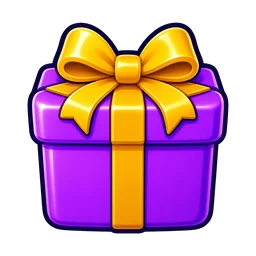
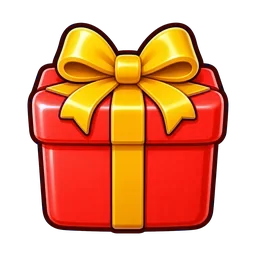
juego: los regalos pasan de morado a rojo, que sobre el violeta no se veian (BallTrials-GAME 2a5528f)

diff --git a/play-cktxj8m6/index.html b/play-cktxj8m6/index.html
@@ -1,6 +1,6 @@
 <meta charset="utf-8">
 <meta name="robots" content="noindex, nofollow">
-<meta name="bt-build" content="2026-08-08 02c0386"><!--+AG doc 34 Fase B: sin esto el navegador adivina el encoding y los emojis/flechas salen como mojibake (a-¶ PLAY) -->
+<meta name="bt-build" content="2026-08-08 2a5528f"><!--+AG doc 34 Fase B: sin esto el navegador adivina el encoding y los emojis/flechas salen como mojibake (a-¶ PLAY) -->
 <meta name="viewport" content="width=device-width, initial-scale=1, maximum-scale=1, user-scalable=no">
 <title>BallTrials · El juego</title>
 <!--+AG doc 41 bloque E: el mapa de librerias (three, para el fondo vivo y las bolas de los menus).
@@ -2017,9 +2017,12 @@
   .pr-code .cd.nm + button{ margin-left:9px; }   /* ya lo empuja el valor: sin esto el boton se pega al borde */
   .pr-slots{ display:flex; gap:9px; margin-top:11px; align-items:center; } .pr-slots .s{ width:44px; height:44px; border-radius:50%; border:2px dashed #ffffff2e; color:var(--muted); display:grid; place-items:center; font-size:var(--fs-5); background:var(--plate-a); cursor:pointer; }
   /*+AG doc 41 §1: el regalo era un emoji del sistema sobre un azulejo dorado. Ahora es arte propio
-     (ui-regalo.webp, morado con lazo dorado) y va DESNUDO, sin plato: el plato dorado le peleaba el
-     color al lazo, y en este archivo el azulejo se reserva a lo que se pulsa (.ricon), no a lo
-     decorativo (.pi, .tlk tambien van sueltos). */
+     (ui-regalo.webp, ROJO con lazo dorado desde el 8-ago) y va DESNUDO, sin plato: el plato dorado le
+     peleaba el color al lazo, y en este archivo el azulejo se reserva a lo que se pulsa (.ricon), no
+     a lo decorativo (.pi, .tlk tambien van sueltos).
+     ⚠ 8-ago · ERA MORADO, y por eso cambio: sobre el violeta del juego un regalo morado casi no se
+       ve. Medido contra el fondo real de la fila del Ranking, la caja pasa de 59 a 94 de separacion
+       de color. Lo canto Jaime mirando la pantalla, no un banco. Ver doc 102. */
   .pr-ref{ display:flex; align-items:center; gap:12px; } .pr-ref img.gift{ width:46px; height:46px; flex:0 0 auto; object-fit:contain; display:block; filter:drop-shadow(0 3px 7px #0009); } .pr-ref .tx{ flex:1; font-size:var(--fs-3); color:#d6dbf4; line-height:1.4; } .pr-ref .tx b{ color:var(--gold2); }
   .pr-emotes{ display:flex; gap:8px; flex-wrap:wrap; } .pr-emote{ background:var(--plate-a); border:1px solid var(--line); border-radius:12px; padding:8px 12px; font-size:var(--fs-3); font-weight:700; color:#e7ebff; cursor:pointer; }
   .pr-toggle{ display:flex; align-items:center; gap:11px; } .pr-toggle .tx{ flex:1; font-size:var(--fs-3); color:#d6dbf4; line-height:1.4; }
@@ -6051,7 +6054,13 @@
            `prRefShort` no es copy nuevo: son las mismas palabras del principio de `prRefTx` en los 20
            diccionarios, cortadas donde acaba la promesa. -->
       <div class="pr-ref">
-        <img class="gift" src="arte/ui/ui-regalo.webp" alt="">
+        <!--+AG ⚠ 8-ago · LE FALTABA EL `?v=` Y ERA EL UNICO REGALO DEL JUEGO SIN EL. Todos los demas
+             pasan por uiArt(), que les cuelga el ART_V; este estaba escrito a mano. Mientras el
+             fichero no cambiaba no se notaba — el dia que cambio de morado a rojo (doc 102) habria
+             sido el unico que se quedaba morado en el navegador de quien ya hubiera entrado, y sin
+             fecha de caducidad. Un `src` a mano en un fichero que puede cambiar es una bomba de
+             relojeria de cache. -->
+        <img class="gift" src="arte/ui/ui-regalo.webp?v=4" alt="">
         <div class="tx" data-th="prRefShort"></div>
       </div>
       <button class="se-cta oro" style="margin-top:11px" data-soonk="sSoonInviteGame" data-t="prRefCta">Invitar al juego</button>
@@ -6323,7 +6332,7 @@
 
 <!--+AG doc 41 bloque C: iconos de modo canonicos (SVG plano dorado del canal). Script CLASICO y
      antes del principal a proposito: se ejecuta en orden y la constante existe ya en el primer render. -->
-<script src="i18n/idiomas.js?v=02c0386"></script><!--+AG doc 49: catalogo de los 20 idiomas + cargador de paquetes. Clasico y ANTES del script principal: LANGS/ord/nfmt se construyen con el. -->
+<script src="i18n/idiomas.js?v=2a5528f"></script><!--+AG doc 49: catalogo de los 20 idiomas + cargador de paquetes. Clasico y ANTES del script principal: LANGS/ord/nfmt se construyen con el. -->
 <script src="arte/modeicons-vendored.js"></script>
 <script src="arte/bolas-canon.js"></script><!--+AG el color canonico de las 12 bolas, fuente unica (lo lee tambien integrar-bolas.py). Tiene que ir ANTES del script principal: ARCH_COLOR se construye con el. -->
 <script>
@@ -7634,7 +7643,9 @@ const nfmt=n=>Number(n||0).toLocaleString(BTI18N.nloc(LANG));
 //   `curl` devolvia los bytes nuevos y el navegador seguia pintando los viejos). La nota larga esta
 //   encima de `.cico` en el CSS. Al SUSTITUIR una imagen ya desplegada, sube este numero.
 //   v2 = 1-ago-2026: monedas de oro y gema (encargo 29) + trofeo con tinta (encargo 30).
-const ART_V='3';   /*+AG 7-ago: sube a 3 al entrar los 4 iconos de booster nuevos, que sustituyen a ficheros del mismo nombre */
+const ART_V='4';   /*+AG 7-ago: sube a 3 al entrar los 4 iconos de booster nuevos, que sustituyen a ficheros del mismo nombre.
+                      8-ago: sube a 4 porque los TRES REGALOS pasan de morado a rojo (doc 102) sin cambiar de nombre de
+                      fichero — sin esto, el navegador y la CDN seguirian sirviendo la caja morada durante dias. */
 const uiArt=n=>`arte/ui/${n}.webp?v=${ART_V}`;
 const coinIco=(n,cls)=>`<img class="cico${cls?' '+cls:''}" src="${uiArt('moneda-'+n)}" alt="">`;
 //+AG 1-ago (encargo 31): los OBJETOS DE LOGRO — puesto 1º/2º/3º, corona del ganador y "hay premio"—
@@ -9877,7 +9888,7 @@ function vivasSync(){
   if(_vivas){ _vivas.sincroniza(raiz,z); return; }
   if(_vivasCargando) return;
   _vivasCargando=true;
-  import('./motor/chassis/vivas.mjs?v=02c0386').then(m=>{ _vivas=m.vivas; _vivasCargando=false; window.__vivasInfo=()=>_vivas.info(); const [r,zz]=vivasQue(); _vivas.sincroniza(r,zz); })
+  import('./motor/chassis/vivas.mjs?v=2a5528f').then(m=>{ _vivas=m.vivas; _vivasCargando=false; window.__vivasInfo=()=>_vivas.info(); const [r,zz]=vivasQue(); _vivas.sincroniza(r,zz); })
     .catch(e=>{ _vivasCargando=false; console.warn('[vivas] no cargo; las cartas se quedan sin bola', e); });
 }
 //+AG y se PARAN al salir: doce bolas en 3D girando detras de una pantalla que ya no miras es bateria
@@ -10147,7 +10158,7 @@ const esEstela=id=>ESTELA_ORD.indexOf(id)>=0;
 let ESTELA_COLS=null;
 function cargaEstelaCols(cb){
   if(ESTELA_COLS) return cb();
-  import('./motor/chassis/estelas.mjs?v=02c0386')
+  import('./motor/chassis/estelas.mjs?v=2a5528f')
     .then(m=>{ ESTELA_COLS=m.ESTELAS||{}; cb(); })
     .catch(()=>{ ESTELA_COLS={}; cb(); });   //   sin red, fichas en gris: nunca una pantalla rota
 }
@@ -12618,7 +12629,7 @@ atrasSync();
 <!--+AG El mapa de librerias (importmap) YA NO VIVE AQUI: se subio al <head>, arriba del todo.
      Tiene que estar parseado ANTES del primer import, y desde aqui abajo no lo estaba. -->
 <script type="module">
-  import { startAmbient } from './arte/ambient.mjs?v=02c0386';
+  import { startAmbient } from './arte/ambient.mjs?v=2a5528f';
   //+AG el modulo se ejecuta DESPUES del script clasico, asi que al llegar aqui la Home ya esta
   //   pintada: por eso se enciende a mano si toca, en vez de esperar a un cambio de pantalla.
   //+AG feedback Jaime 2026-07-27: ahora hay DOS lienzos posibles (Home #ambient y Resultados #ambientR);
@@ -12634,7 +12645,7 @@ atrasSync();
   //+AG doc 51: «asi se ve en pista» dentro de la ficha del Garaje. Se expone en window porque
   //   openDetail/closeDetail viven en el script CLASICO de arriba, que no puede importar modulos.
   //   Mismo trato que el fondo vivo: un solo contexto WebGL a la vez, y se apaga al salir.
-  import('./arte/pista-preview.mjs?v=02c0386').then(m => {
+  import('./arte/pista-preview.mjs?v=2a5528f').then(m => {
     window.BT_PISTA = { show:(el,k)=>{ try{ m.showPista(el,k); }catch(e){} }, stop:()=>m.stopPista() };
   });
 </script>
@@ -12646,8 +12657,8 @@ atrasSync();
      Se reusa el reproductor DEL MOTOR (chassis/webaudio.mjs), no uno nuevo: mismo desbloqueo por gesto, mismo
      rescate al volver de segundo plano en movil. -->
 <script type="module">
-  import { createWebAudio } from './motor/chassis/webaudio.mjs?v=02c0386';
-  import { createUiSfx } from './motor/chassis/uisfx.mjs?v=02c0386';   //+AG el clic de los menus (VB Jaime 2026-07-27)
+  import { createWebAudio } from './motor/chassis/webaudio.mjs?v=2a5528f';
+  import { createUiSfx } from './motor/chassis/uisfx.mjs?v=2a5528f';   //+AG el clic de los menus (VB Jaime 2026-07-27)
   //+AG VOLUMEN MEDIDO, no a ojo. La pista de lobby ya viene suavizada de origen (-22,3 LUFS) y las de partida
   //   estan a -15, o sea 7 dB mas fuertes. Con el 0.26 que usa la web oficial esto quedaria 8,5 dB por debajo de
   //   la partida: casi inaudible. Con 0.40 se queda ~5 dB por debajo, que es lo que se busca: los menus suenan de
@@ -12817,7 +12828,7 @@ atrasSync();
   (async ()=>{
     try{
       const [{crearNube},{crearSincro}] = await Promise.all([
-        import('./motor/chassis/nube.mjs?v=02c0386'), import('./motor/chassis/sincro.mjs?v=02c0386')]);
+        import('./motor/chassis/nube.mjs?v=2a5528f'), import('./motor/chassis/sincro.mjs?v=2a5528f')]);
       const nube   = crearNube();
       const sincro = crearSincro({ nube, aviso:(q,d)=>console.log('[nube]', q, d||'') });
       window.BT_NUBE = { nube, sincro };

diff --git a/play-cktxj8m6/motor/redlight/index.html b/play-cktxj8m6/motor/redlight/index.html
@@ -3,7 +3,7 @@
 <head>
 <meta charset="utf-8" />
 <meta name="robots" content="noindex, nofollow">
-<meta name="bt-build" content="2026-08-08 02c0386">
+<meta name="bt-build" content="2026-08-08 2a5528f">
 <meta name="viewport" content="width=device-width, initial-scale=1" />
 <!--+AG el HTML se sirve en INGLES (defecto del juego); ?lang=es lo traduce por JS (applyLang) -->
 <title>YouBall · Red Light Rush (WebGL) · The Marble Games</title>
@@ -536,7 +536,7 @@ if(new URLSearchParams(location.search).get('drive')==='1'){
 
 <!--+AG ICONO DE MODO para el cartel de arranque: script CLÁSICO (se ejecuta antes del módulo) igual que en
      juego.html, así window.VENDORED_MODE_ICONS ya existe cuando chassis/arranque.mjs construye el cartel. -->
-<script src="../../i18n/idiomas.js?v=02c0386"></script><!--+AG doc 49: catalogo y cargador de los 20 idiomas, compartido con el shell. Clasico y antes del modulo. -->
+<script src="../../i18n/idiomas.js?v=2a5528f"></script><!--+AG doc 49: catalogo y cargador de los 20 idiomas, compartido con el shell. Clasico y antes del modulo. -->
 <script src="../../arte/modeicons-vendored.js"></script>
 
 <script type="importmap">
@@ -547,32 +547,32 @@ if(new URLSearchParams(location.search).get('drive')==='1'){
 </script>
 
 <script type="module">
-import { THREE, sat, createStage, createParticles, makeBallVinyl, createStarBurst, createWindTrail, createBloom, frameOrtho, BLOOM } from '../chassis/gfx.mjs?v=02c0386';
-import { paleta as estelaPaleta, emiteEstela } from '../chassis/estelas.mjs?v=02c0386';   //+AG doc 97 §6: la estela cosmetica del jugador
-import { archLook } from '../chassis/ballmat.mjs?v=02c0386';   //+AG doc 41 bloque G: material de la bola-heroe
-import { attachSquash } from '../chassis/squash.mjs?v=02c0386';
-import { createCelebration } from '../chassis/celebration.mjs?v=02c0386';
-import { createKillfeed } from '../chassis/killfeed.mjs?v=02c0386';
-import { createCensusBoard } from '../chassis/censusboard.mjs?v=02c0386';
-import { createCupoGauge } from '../chassis/cupogauge.mjs?v=02c0386';
-import { createKillTags } from '../chassis/killtag.mjs?v=02c0386';
-import { crearInventario } from '../chassis/invboost.mjs?v=02c0386';   //+AG 2026-08-06 inventario de boosters (1 uso gratis + stock comprado)
-import { EmoBook, PRIO } from '../chassis/emotions.mjs?v=02c0386';
-import { archFace } from '../chassis/facegen.mjs?v=02c0386';   //+AG archFace: la cara de la FICHA (ceja+boca del heroe) sobre el reposo
-import { Sim, TEAMS, SHORT_COLORS, SHORT_COLORS_6, BALL_R, FPS, FIELD_W, FIELD_L, XL, XR, SPAWN_Y, GATE_Y, SAFE_Y } from './sim.js?v=02c0386';
-import { createWebAudio, pickTrack } from '../chassis/webaudio.mjs?v=02c0386';
-import { buildSfxBuffer } from './sfxmap.mjs?v=02c0386';
-import { createCoach } from '../chassis/coach.mjs?v=02c0386';   //+AG COACH del tutorial "Cómo jugar" (solo se usa con ?tutorial=1)
-import { crearSalida } from '../chassis/salida.mjs?v=02c0386';   //+AG 2026-08-08 · preparar la bola durante la cuenta atrás
-import { createArranque, modeBanner, sfxCountdown } from '../chassis/arranque.mjs?v=02c0386';   //+AG cartel "¿LISTO?" + cuenta atrás CON sonido (los 3 modos)
-import { createUiSfx } from '../chassis/uisfx.mjs?v=02c0386';   //+AG doc 88: el sonido de "no puedo"
-import { createJuice } from '../chassis/juice.mjs?v=02c0386';   //+AG doc 88: lo que pasa cuando el dedo toca un botón (los 3 modos)
+import { THREE, sat, createStage, createParticles, makeBallVinyl, createStarBurst, createWindTrail, createBloom, frameOrtho, BLOOM } from '../chassis/gfx.mjs?v=2a5528f';
+import { paleta as estelaPaleta, emiteEstela } from '../chassis/estelas.mjs?v=2a5528f';   //+AG doc 97 §6: la estela cosmetica del jugador
+import { archLook } from '../chassis/ballmat.mjs?v=2a5528f';   //+AG doc 41 bloque G: material de la bola-heroe
+import { attachSquash } from '../chassis/squash.mjs?v=2a5528f';
+import { createCelebration } from '../chassis/celebration.mjs?v=2a5528f';
+import { createKillfeed } from '../chassis/killfeed.mjs?v=2a5528f';
+import { createCensusBoard } from '../chassis/censusboard.mjs?v=2a5528f';
+import { createCupoGauge } from '../chassis/cupogauge.mjs?v=2a5528f';
+import { createKillTags } from '../chassis/killtag.mjs?v=2a5528f';
+import { crearInventario } from '../chassis/invboost.mjs?v=2a5528f';   //+AG 2026-08-06 inventario de boosters (1 uso gratis + stock comprado)
+import { EmoBook, PRIO } from '../chassis/emotions.mjs?v=2a5528f';
+import { archFace } from '../chassis/facegen.mjs?v=2a5528f';   //+AG archFace: la cara de la FICHA (ceja+boca del heroe) sobre el reposo
+import { Sim, TEAMS, SHORT_COLORS, SHORT_COLORS_6, BALL_R, FPS, FIELD_W, FIELD_L, XL, XR, SPAWN_Y, GATE_Y, SAFE_Y } from './sim.js?v=2a5528f';
+import { createWebAudio, pickTrack } from '../chassis/webaudio.mjs?v=2a5528f';
+import { buildSfxBuffer } from './sfxmap.mjs?v=2a5528f';
+import { createCoach } from '../chassis/coach.mjs?v=2a5528f';   //+AG COACH del tutorial "Cómo jugar" (solo se usa con ?tutorial=1)
+import { crearSalida } from '../chassis/salida.mjs?v=2a5528f';   //+AG 2026-08-08 · preparar la bola durante la cuenta atrás
+import { createArranque, modeBanner, sfxCountdown } from '../chassis/arranque.mjs?v=2a5528f';   //+AG cartel "¿LISTO?" + cuenta atrás CON sonido (los 3 modos)
+import { createUiSfx } from '../chassis/uisfx.mjs?v=2a5528f';   //+AG doc 88: el sonido de "no puedo"
+import { createJuice } from '../chassis/juice.mjs?v=2a5528f';   //+AG doc 88: lo que pasa cuando el dedo toca un botón (los 3 modos)
 //+AG el ámbito NO es opcional: la regla base es `#controls button` (id + etiqueta) y le gana en
 //   especificidad a cualquier `.j-hit` suelto. Es la trampa que ya costó una versión muerta en este
 //   mismo fichero (ver la nota de `#controls button#bGhost .bi`).
 const juice = createJuice({ ambito:'#controls', reducido: new URLSearchParams(location.search).get('redfx')==='1' });
-import { createPausa } from '../chassis/pausa.mjs?v=02c0386';   //+AG la partida se PARA cuando el shell pregunta encima (los 3 modos)
-import { cantarPuesto } from '../chassis/veredicto.mjs?v=02c0386';   //+AG cartel de FIN: "en qué puesto has quedado", antes de soltar el resultado al shell
+import { createPausa } from '../chassis/pausa.mjs?v=2a5528f';   //+AG la partida se PARA cuando el shell pregunta encima (los 3 modos)
+import { cantarPuesto } from '../chassis/veredicto.mjs?v=2a5528f';   //+AG cartel de FIN: "en qué puesto has quedado", antes de soltar el resultado al shell
 
 window.addEventListener('error', e => { document.getElementById('err').style.display='grid'; console.error(e.error||e.message); });
 

diff --git a/play-cktxj8m6/motor/race/index.html b/play-cktxj8m6/motor/race/index.html
@@ -4,7 +4,7 @@
 <head>
 <meta charset="utf-8" />
 <meta name="robots" content="noindex, nofollow">
-<meta name="bt-build" content="2026-08-08 02c0386">
+<meta name="bt-build" content="2026-08-08 2a5528f">
 <meta name="viewport" content="width=device-width, initial-scale=1" />
 <title>YouBall · La Gran Carrera (WebGL)</title>
 <style>
@@ -491,7 +491,7 @@ if(new URLSearchParams(location.search).get('drive')==='1'){
 
 <!--+AG ICONO DE MODO para el cartel de arranque: script CLÁSICO (se ejecuta antes del módulo) igual que en
      juego.html, así window.VENDORED_MODE_ICONS ya existe cuando chassis/arranque.mjs construye el cartel. -->
-<script src="../../i18n/idiomas.js?v=02c0386"></script><!--+AG doc 49: catalogo y cargador de los 20 idiomas, compartido con el shell. Clasico y antes del modulo. -->
+<script src="../../i18n/idiomas.js?v=2a5528f"></script><!--+AG doc 49: catalogo y cargador de los 20 idiomas, compartido con el shell. Clasico y antes del modulo. -->
 <script src="../../arte/modeicons-vendored.js"></script>
 
 <script type="importmap">
@@ -502,30 +502,30 @@ if(new URLSearchParams(location.search).get('drive')==='1'){
 </script>
 
 <script type="module">
-import { THREE, BLOOM, sat, createStage, createParticles, makeBallVinyl, createStarBurst, createWindTrail, createItemPops, createBloom, frameOrtho, buildHud, updateHud } from '../chassis/gfx.mjs?v=02c0386';
-import { archLook } from '../chassis/ballmat.mjs?v=02c0386';   //+AG doc 41 bloque G: material de la bola-heroe
-import { attachSquash } from '../chassis/squash.mjs?v=02c0386';
-import { crearEscudos } from '../chassis/escudo.mjs?v=02c0386';   //+AG 2026-08-08: la burbuja que dice "llevo escudo puesto"
-import { paleta as estelaPaleta, emiteEstela } from '../chassis/estelas.mjs?v=02c0386';   //+AG doc 97 §6: la estela cosmetica del jugador
+import { THREE, BLOOM, sat, createStage, createParticles, makeBallVinyl, createStarBurst, createWindTrail, createItemPops, createBloom, frameOrtho, buildHud, updateHud } from '../chassis/gfx.mjs?v=2a5528f';
+import { archLook } from '../chassis/ballmat.mjs?v=2a5528f';   //+AG doc 41 bloque G: material de la bola-heroe
+import { attachSquash } from '../chassis/squash.mjs?v=2a5528f';
+import { crearEscudos } from '../chassis/escudo.mjs?v=2a5528f';   //+AG 2026-08-08: la burbuja que dice "llevo escudo puesto"
+import { paleta as estelaPaleta, emiteEstela } from '../chassis/estelas.mjs?v=2a5528f';   //+AG doc 97 §6: la estela cosmetica del jugador
 import { Sim, RNG, TEAMS, SHORT_COLORS, BALL_R, WIDTH, GATE_Y, GATE_H, TOP, FPS,
-         DIR, N_BALLS, CAM_SCALE, ASPA_R, ASPA_THICK, PLAT_HW, PLAT_HH } from './sim.js?v=02c0386';   //+AG extras de la capa de agencia
+         DIR, N_BALLS, CAM_SCALE, ASPA_R, ASPA_THICK, PLAT_HW, PLAT_HH } from './sim.js?v=2a5528f';   //+AG extras de la capa de agencia
 //+AG doc 62: los encuadres del cierre (sim.hero_scale / sim.celeb_scale) se leen del OBJETO sim, no por
 //   import. Un export que la CDN aún no ha refrescado tumba el módulo entero y la partida no arranca (pasó
 //   en producción el 2-ago); un campo que falta degrada a la cámara de siempre. Ver la nota en sim.js.
-import { EmoBook, PRIO } from '../chassis/emotions.mjs?v=02c0386';
-import { archFace } from '../chassis/facegen.mjs?v=02c0386';   //+AG archFace: la cara de la FICHA (ceja+boca del heroe) sobre el reposo
-import { itemTexture } from '../chassis/itemgen.mjs?v=02c0386';
-import { crearInventario } from '../chassis/invboost.mjs?v=02c0386';   //+AG 2026-08-06 inventario de boosters (1 uso gratis + stock comprado)
-import { createWebAudio, pickTrack } from '../chassis/webaudio.mjs?v=02c0386';
-import { buildSfxBuffer } from './sfxmap.mjs?v=02c0386';
-import { runToEnd } from '../chassis/simrun.mjs?v=02c0386';
-import { createCoach } from '../chassis/coach.mjs?v=02c0386';   //+AG COACH del tutorial "Cómo jugar" (solo se usa con ?tutorial=1)
-import { crearSalida } from '../chassis/salida.mjs?v=02c0386';   //+AG 2026-08-08 · preparar la bola durante la cuenta atrás
-import { createArranque, modeBanner, sfxCountdown } from '../chassis/arranque.mjs?v=02c0386';   //+AG cartel "¿LISTO?" + cuenta atrás CON sonido (los 3 modos)
-import { createPausa } from '../chassis/pausa.mjs?v=02c0386';   //+AG la partida se PARA cuando el shell pregunta encima (los 3 modos)
-import { cantarPuesto } from '../chassis/veredicto.mjs?v=02c0386';   //+AG cartel de META: "en qué puesto has quedado", antes de soltar el resultado al shell
-import { createUiSfx } from '../chassis/uisfx.mjs?v=02c0386';   //+AG doc 88: el sonido de "no puedo"
-import { createJuice } from '../chassis/juice.mjs?v=02c0386';   //+AG doc 88: lo que pasa cuando el dedo toca un botón (los 3 modos)
+import { EmoBook, PRIO } from '../chassis/emotions.mjs?v=2a5528f';
+import { archFace } from '../chassis/facegen.mjs?v=2a5528f';   //+AG archFace: la cara de la FICHA (ceja+boca del heroe) sobre el reposo
+import { itemTexture } from '../chassis/itemgen.mjs?v=2a5528f';
+import { crearInventario } from '../chassis/invboost.mjs?v=2a5528f';   //+AG 2026-08-06 inventario de boosters (1 uso gratis + stock comprado)
+import { createWebAudio, pickTrack } from '../chassis/webaudio.mjs?v=2a5528f';
+import { buildSfxBuffer } from './sfxmap.mjs?v=2a5528f';
+import { runToEnd } from '../chassis/simrun.mjs?v=2a5528f';
+import { createCoach } from '../chassis/coach.mjs?v=2a5528f';   //+AG COACH del tutorial "Cómo jugar" (solo se usa con ?tutorial=1)
+import { crearSalida } from '../chassis/salida.mjs?v=2a5528f';   //+AG 2026-08-08 · preparar la bola durante la cuenta atrás
+import { createArranque, modeBanner, sfxCountdown } from '../chassis/arranque.mjs?v=2a5528f';   //+AG cartel "¿LISTO?" + cuenta atrás CON sonido (los 3 modos)
+import { createPausa } from '../chassis/pausa.mjs?v=2a5528f';   //+AG la partida se PARA cuando el shell pregunta encima (los 3 modos)
+import { cantarPuesto } from '../chassis/veredicto.mjs?v=2a5528f';   //+AG cartel de META: "en qué puesto has quedado", antes de soltar el resultado al shell
+import { createUiSfx } from '../chassis/uisfx.mjs?v=2a5528f';   //+AG doc 88: el sonido de "no puedo"
+import { createJuice } from '../chassis/juice.mjs?v=2a5528f';   //+AG doc 88: lo que pasa cuando el dedo toca un botón (los 3 modos)
 //+AG el ámbito NO es opcional: `#ctr button:disabled` le gana en especificidad a cualquier `.j-hit` suelto,
 //   y un booster se pone `disabled` en el MISMO frame en que se dispara. Sin el ámbito, el fogonazo del
 //   botón que más importa no se vería jamás (es la trampa del doc 74 §6, ahora con su nombre).

diff --git a/play-cktxj8m6/motor/cazador/index.html b/play-cktxj8m6/motor/cazador/index.html
@@ -3,7 +3,7 @@
 <head>
 <meta charset="utf-8" />
 <meta name="robots" content="noindex, nofollow">
-<meta name="bt-build" content="2026-08-08 02c0386">
+<meta name="bt-build" content="2026-08-08 2a5528f">
 <meta name="viewport" content="width=device-width, initial-scale=1" />
 <!--+AG el HTML se sirve en INGLES (defecto del juego); ?lang=es lo traduce por JS (applyLang) -->
 <title>YouBall · The Hunter (WebGL)</title>
@@ -395,7 +395,7 @@ if(new URLSearchParams(location.search).get('drive')==='1'){
 
 <!--+AG ICONO DE MODO para el cartel de arranque: script CLÁSICO (se ejecuta antes del módulo) igual que en
      juego.html, así window.VENDORED_MODE_ICONS ya existe cuando chassis/arranque.mjs construye el cartel. -->
-<script src="../../i18n/idiomas.js?v=02c0386"></script><!--+AG doc 49: catalogo y cargador de los 20 idiomas, compartido con el shell. Clasico y antes del modulo. -->
+<script src="../../i18n/idiomas.js?v=2a5528f"></script><!--+AG doc 49: catalogo y cargador de los 20 idiomas, compartido con el shell. Clasico y antes del modulo. -->
 <script src="../../arte/modeicons-vendored.js"></script>
 
 <script type="importmap">
@@ -406,30 +406,30 @@ if(new URLSearchParams(location.search).get('drive')==='1'){
 </script>
 
 <script type="module">
-import { THREE, BLOOM, sat, createStage, createParticles, makeBallVinyl, makeFacePlane, createItemPool, createItemPops, createStarBurst, createWindTrail, createBloom, frameOrtho } from '../chassis/gfx.mjs?v=02c0386';
-import { archLook } from '../chassis/ballmat.mjs?v=02c0386';   //+AG doc 41 bloque G: material de la bola-heroe
-import { attachSquash } from '../chassis/squash.mjs?v=02c0386';
-import { crearEscudos } from '../chassis/escudo.mjs?v=02c0386';   //+AG 2026-08-08: la burbuja que dice "llevo escudo puesto" (misma pieza que la Carrera)
-import { paleta as estelaPaleta, emiteEstela } from '../chassis/estelas.mjs?v=02c0386';   //+AG doc 97 §6: la estela cosmetica del jugador
-import { Sim, RNG, TEAMS, BALL_R, ARENA_W, ARENA_H, FPS, AGENCIA } from './sim.js?v=02c0386';
-import { EmoBook, PRIO } from '../chassis/emotions.mjs?v=02c0386';
-import { archFace } from '../chassis/facegen.mjs?v=02c0386';   //+AG archFace: la cara de la FICHA (ceja+boca del heroe) sobre el reposo
-import { createCelebration } from '../chassis/celebration.mjs?v=02c0386';
-import { createWebAudio, pickTrack } from '../chassis/webaudio.mjs?v=02c0386';
-import { crearInventario } from '../chassis/invboost.mjs?v=02c0386';   //+AG 2026-08-06 inventario de boosters (1 uso gratis + stock comprado)
-import { buildSfxBuffer } from './sfxmap.mjs?v=02c0386';
-import { createCoach } from '../chassis/coach.mjs?v=02c0386';   //+AG COACH del tutorial "Cómo jugar" (solo se usa con ?tutorial=1)
-import { crearSalida } from '../chassis/salida.mjs?v=02c0386';   //+AG 2026-08-08 · preparar la bola durante la cuenta atrás
-import { createArranque, modeBanner, sfxCountdown } from '../chassis/arranque.mjs?v=02c0386';   //+AG cartel "¿LISTO?" + cuenta atrás CON sonido (los 3 modos)
-import { createUiSfx } from '../chassis/uisfx.mjs?v=02c0386';   //+AG doc 88: el sonido de "no puedo"
-import { createJuice } from '../chassis/juice.mjs?v=02c0386';   //+AG doc 88: lo que pasa cuando el dedo toca un botón (los 3 modos)
+import { THREE, BLOOM, sat, createStage, createParticles, makeBallVinyl, makeFacePlane, createItemPool, createItemPops, createStarBurst, createWindTrail, createBloom, frameOrtho } from '../chassis/gfx.mjs?v=2a5528f';
+import { archLook } from '../chassis/ballmat.mjs?v=2a5528f';   //+AG doc 41 bloque G: material de la bola-heroe
+import { attachSquash } from '../chassis/squash.mjs?v=2a5528f';
+import { crearEscudos } from '../chassis/escudo.mjs?v=2a5528f';   //+AG 2026-08-08: la burbuja que dice "llevo escudo puesto" (misma pieza que la Carrera)
+import { paleta as estelaPaleta, emiteEstela } from '../chassis/estelas.mjs?v=2a5528f';   //+AG doc 97 §6: la estela cosmetica del jugador
+import { Sim, RNG, TEAMS, BALL_R, ARENA_W, ARENA_H, FPS, AGENCIA } from './sim.js?v=2a5528f';
+import { EmoBook, PRIO } from '../chassis/emotions.mjs?v=2a5528f';
+import { archFace } from '../chassis/facegen.mjs?v=2a5528f';   //+AG archFace: la cara de la FICHA (ceja+boca del heroe) sobre el reposo
+import { createCelebration } from '../chassis/celebration.mjs?v=2a5528f';
+import { createWebAudio, pickTrack } from '../chassis/webaudio.mjs?v=2a5528f';
+import { crearInventario } from '../chassis/invboost.mjs?v=2a5528f';   //+AG 2026-08-06 inventario de boosters (1 uso gratis + stock comprado)
+import { buildSfxBuffer } from './sfxmap.mjs?v=2a5528f';
+import { createCoach } from '../chassis/coach.mjs?v=2a5528f';   //+AG COACH del tutorial "Cómo jugar" (solo se usa con ?tutorial=1)
+import { crearSalida } from '../chassis/salida.mjs?v=2a5528f';   //+AG 2026-08-08 · preparar la bola durante la cuenta atrás
+import { createArranque, modeBanner, sfxCountdown } from '../chassis/arranque.mjs?v=2a5528f';   //+AG cartel "¿LISTO?" + cuenta atrás CON sonido (los 3 modos)
+import { createUiSfx } from '../chassis/uisfx.mjs?v=2a5528f';   //+AG doc 88: el sonido de "no puedo"
+import { createJuice } from '../chassis/juice.mjs?v=2a5528f';   //+AG doc 88: lo que pasa cuando el dedo toca un botón (los 3 modos)
 //+AG el ámbito NO es opcional: la regla base es `#controls button` (id + etiqueta) y le gana en
 //   especificidad a cualquier `.j-hit` suelto. Es la misma trampa que ya costó una versión muerta en la
 //   Carrera y otra en Luz Roja; aquí va escrita para no repetirla una tercera vez.
 const juice = createJuice({ ambito:'#controls', reducido: new URLSearchParams(location.search).get('redfx')==='1' });
-import { createPausa } from '../chassis/pausa.mjs?v=02c0386';   //+AG la partida se PARA cuando el shell pregunta encima (los 3 modos)
-import { cantarPuesto } from '../chassis/veredicto.mjs?v=02c0386';   //+AG cartel de FIN: "en qué puesto has quedado", antes de soltar el resultado al shell
-import { runToEnd } from '../chassis/simrun.mjs?v=02c0386';
+import { createPausa } from '../chassis/pausa.mjs?v=2a5528f';   //+AG la partida se PARA cuando el shell pregunta encima (los 3 modos)
+import { cantarPuesto } from '../chassis/veredicto.mjs?v=2a5528f';   //+AG cartel de FIN: "en qué puesto has quedado", antes de soltar el resultado al shell
+import { runToEnd } from '../chassis/simrun.mjs?v=2a5528f';
 
 window.addEventListener('error', e => { document.getElementById('err').style.display='grid'; console.error(e.error||e.message); });
 
